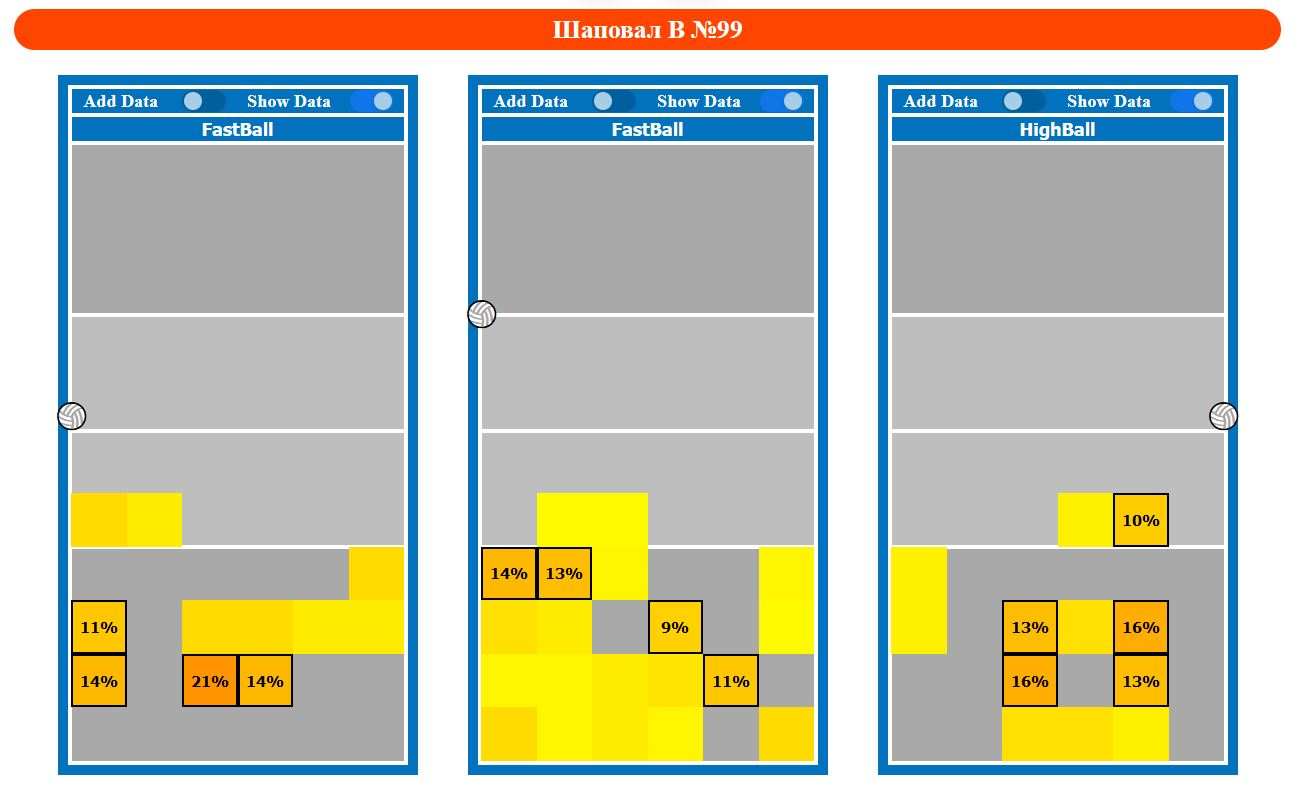
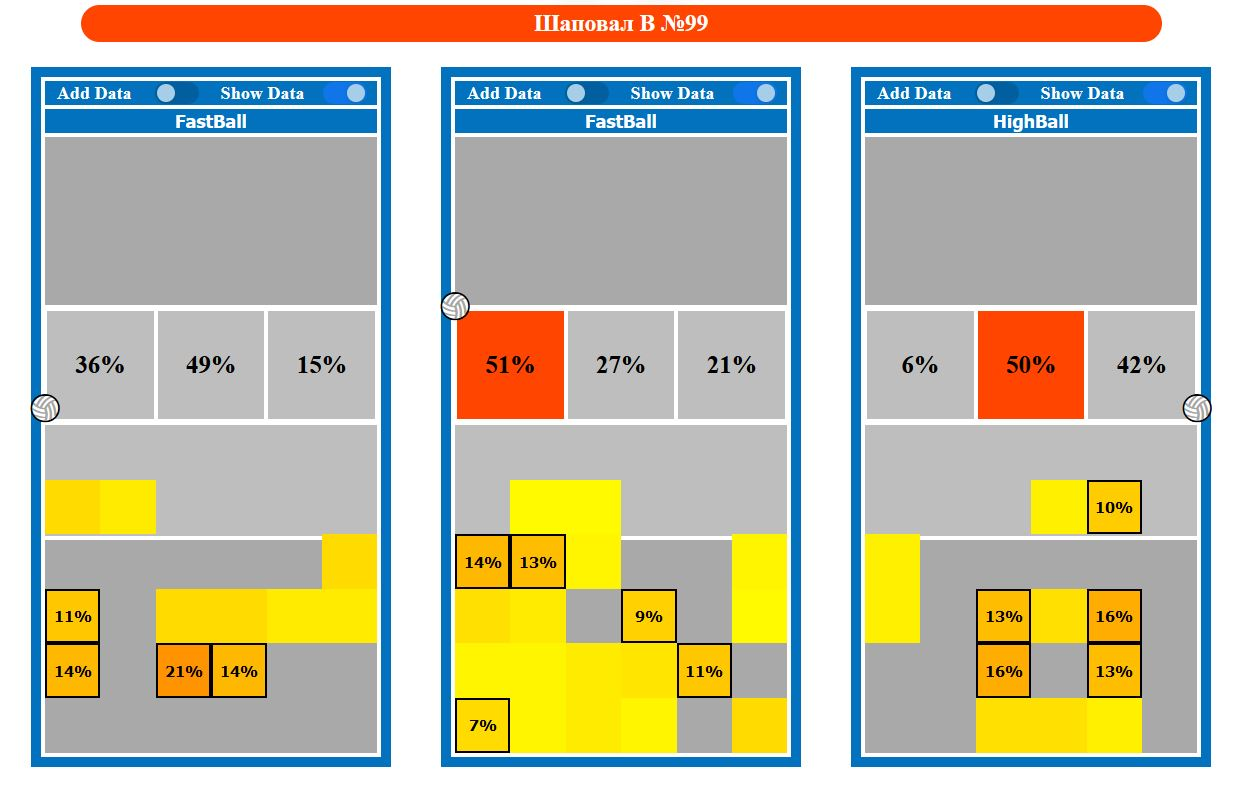
add zones comparison

diff --git a/src/AttackPage/components/WrapperForFields.js b/src/AttackPage/components/WrapperForFields.js
@@ -209,12 +209,31 @@ export default function WrapperForFields({
   };
   const choosenActionOne = type === "Attack" ? "FastBall" : "Jump";
   const choosenActionTwo = type === "Attack" ? "HighBall" : "Float";
+  function totalPercentOfzone(number1, number2) {
+    return zoneValue
+      .filter((value, index) => index % 6 === number1 || index % 6 === number2)
+      .reduce((a, b) => a + b);
+  }
+  const zone5 = Array.isArray(zoneValue) ? totalPercentOfzone(0, 1) : null;
+  const zone6 = Array.isArray(zoneValue) ? totalPercentOfzone(2, 3) : null;
+  const zone1 = Array.isArray(zoneValue) ? totalPercentOfzone(4, 5) : null;
+  function setStyle(zone) {
+    return zone >= 50 ? { backgroundColor: "orangered", color: "white" } : {};
+  }
   return (
     <SectionWrapper
       className="playArea-section"
       backGround={
         <div className="playground-area-background">
-          <div className="threeMRivalCort"></div>
+          <div className="threeMRivalCort">
+            {Array.isArray(zoneValue) && (
+              <>
+                <div style={setStyle(zone5)}>{zone5}%</div>
+                <div style={setStyle(zone6)}>{zone6}%</div>
+                <div style={setStyle(zone1)}>{zone1}%</div>
+              </>
+            )}
+          </div>
           <div className="threeMMyCort"></div>
         </div>
       }
@@ -395,7 +414,6 @@ export default function WrapperForFields({
                   zoneValue={zoneValue}
                   diagrammValue={diagrammValue}
                   checkEquality={checkEquality}
-                  style={type === "Service" ? { top: "40%" } : {}}
                 />
               )}
             </>

diff --git a/src/css/Attack.module.scss b/src/css/Attack.module.scss
@@ -210,7 +210,7 @@
   .count-button-wrapper {
     position: absolute;
     width: 100%;
-    top: 20%;
+    top: 15%;
     z-index: 15;
     .countButton {
       background-color: #0272be;
@@ -271,14 +271,15 @@
 }
 .cones-wrapper {
   display: grid;
-  grid-template-columns: repeat(6, minmax(0, 55.5px));
+  grid-template-columns: repeat(6, minmax(0, 55.4px));
   padding: 0;
   bottom: 4px;
+  left: 4px;
   position: absolute;
   box-sizing: border-box;
   .result {
     width: 100%;
-    aspect-ratio: 1/0.965;
+    aspect-ratio: 1/0.986;
     display: flex;
     justify-content: center;
     align-items: center;
@@ -325,7 +326,7 @@
   display: flex;
   justify-content: center;
   position: absolute;
-  top: 70px;
+  top: 23%;
   z-index: 16;
   font-size: 18px;
   width: 100%;

diff --git a/src/css/newAttack.css b/src/css/newAttack.css
@@ -94,7 +94,7 @@
 .playArea .count-button-wrapper {
   position: absolute;
   width: 100%;
-  top: 20%;
+  top: 15%;
   z-index: 15;
 }
 .playArea .count-button-wrapper .countButton {
@@ -183,15 +183,16 @@
 
 .cones-wrapper {
   display: grid;
-  grid-template-columns: repeat(6, minmax(0, 55.5px));
+  grid-template-columns: repeat(6, minmax(0, 55.4px));
   padding: 0;
   bottom: 4px;
+  left: 4px;
   position: absolute;
   box-sizing: border-box;
 }
 .cones-wrapper .result {
   width: 100%;
-  aspect-ratio: 1/0.965;
+  aspect-ratio: 1/0.986;
   display: flex;
   justify-content: center;
   align-items: center;
@@ -239,7 +240,7 @@
   display: flex;
   justify-content: center;
   position: absolute;
-  top: 70px;
+  top: 23%;
   z-index: 16;
   font-size: 18px;
   width: 100%;

diff --git a/src/css/newMain.css b/src/css/newMain.css
@@ -180,6 +180,16 @@ main .main-content-wrapper .section-border .section-background .playground-area-
   height: 16.66%;
   border-top: 4px solid rgb(255, 255, 255);
   background-color: rgb(190, 190, 190);
+  display: flex;
+}
+main .main-content-wrapper .section-border .section-background .playground-area-background .threeMRivalCort div {
+  border: 2px solid white;
+  width: 33.3%;
+  display: flex;
+  justify-content: center;
+  align-items: center;
+  font-size: 25px;
+  font-weight: 600;
 }
 main .main-content-wrapper .section-border .section-background .playground-area-background .threeMMyCort {
   position: relative;

diff --git a/src/css/Main.module.scss b/src/css/Main.module.scss
@@ -205,6 +205,16 @@ main {
           background-color: darkgrey;
           .threeMRivalCort {
             @include linesForCort(2%);
+            display: flex;
+            div {
+              border: 2px solid white;
+              width: 33.3%;
+              display: flex;
+              justify-content: center;
+              align-items: center;
+              font-size: 25px;
+              font-weight: 600;
+            }
           }
           .threeMMyCort {
             @include linesForCort(2%);

diff --git a/src/AttackPage/components/inner components/CheckEquality.js b/src/AttackPage/components/inner components/CheckEquality.js
@@ -1,8 +1,8 @@
 import { reduce } from "../../../Datas/api";
 
-export function CheckEquality({ checkEquality, diagrammValue, zoneValue ,style}) {
+export function CheckEquality({ checkEquality, diagrammValue, zoneValue }) {
   return (
-    <div className="compareFields" style={style}>
+    <div className="compareFields">
       <div className="input-equality-wrapper">
         <label>Data value</label>
         <input
